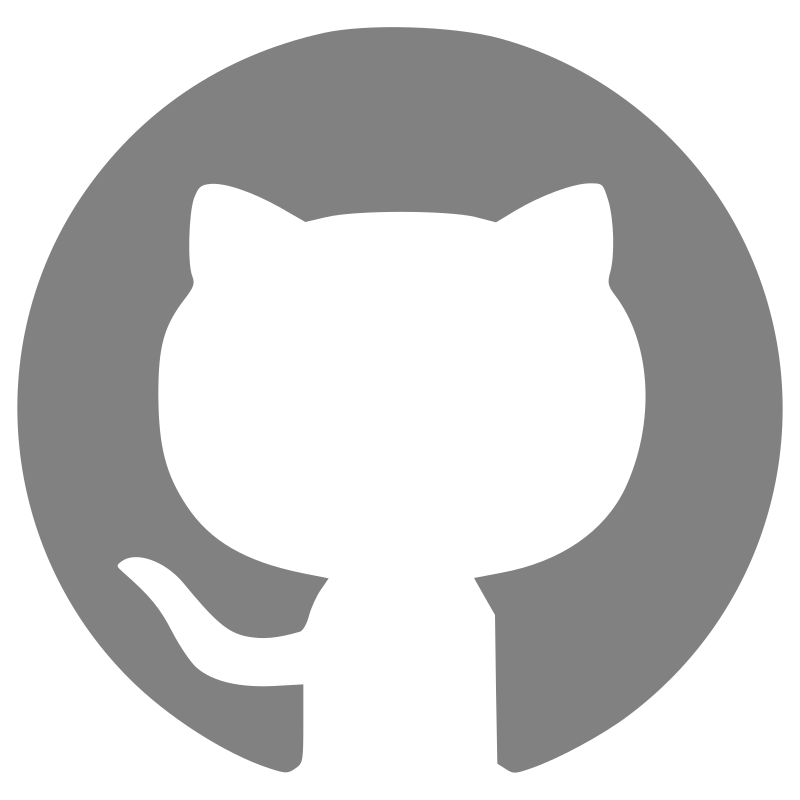
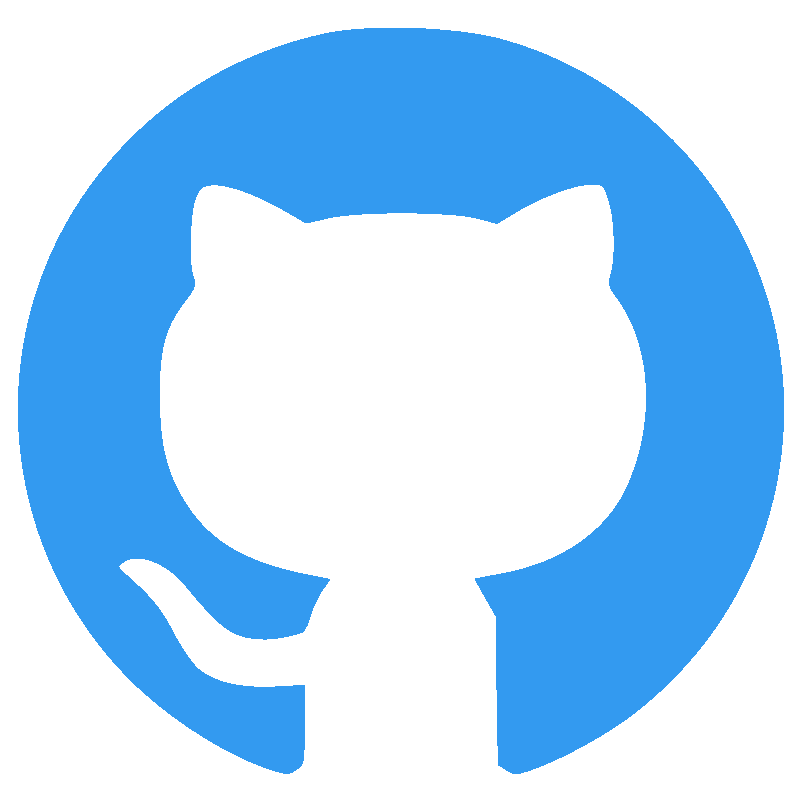
before implementing project grid

diff --git a/index.html b/index.html
@@ -22,7 +22,7 @@
   <body>
     <header>
       <div class="contact-container">
-        <a href="mailto:mwoj772@gmail.com">
+        <a href="mailto:mwoj772@gmail.com" class="a-text">
           <div class="contact-box">
             <svg
               xmlns="http://www.w3.org/2000/svg"
@@ -41,7 +41,7 @@
             <span>mwoj772@gmail.com</span>
           </div>
         </a>
-        <a href="tel:+48601191117">
+        <a href="tel:+48601191117" class="a-text">
           <div class="contact-box">
             <svg
               xmlns="http://www.w3.org/2000/svg"
@@ -65,14 +65,14 @@
             <img
               src="/img/linkedin.png"
               alt="LinkedIn logo"
-              class="logo-linkedin"
+              class="social-logo"
             />
           </a>
           <a href="https://github.com/michalwojcieszek/DigitalGalaxy">
             <img
-              class="github-logo"
-              src="/img/github.png"
-              alt="GitHub logo"
+            src="/img/github.png"
+            alt="github-logo"
+            class="social-logo"
             />
           </a>
         </div>
@@ -139,7 +139,7 @@
       <!-- Projects Section -->
       <section class="container projects" id="projects">
         <h2>My React projects</h2>
-        <ul class="projects-list">
+        <ul class="projects-list-grid">
           <!-- DigitalGalaxy Project -->
           <li class="project">
             <div class="project-text">
@@ -337,12 +337,10 @@ BudgetMaster is the web app that allows users to track their budget in terms on 
                 </ul>
                 <ul class="technologies-logos-list">
                   <li><img src="img/react.png" alt="React logo" /></li>
-                  <li><img src="img/tailwind.png" alt="Tailwind logo" /></li>
+                  <li><img src="img/styled-components.png" alt="Styled Components logo" /></li>
                   <li><img src="img/redux.png" alt="Redux logo" /></li>
                   <li><img src="img/router.png" alt="React Router logo" /></li>
-                  <li><img src="img/nodejs.png" alt="Nodejs logo" /></li>
-                  <li><img src="img/mongodb.png" alt="MongoDB logo" /></li>
-                  <li><img src="img/express.png" alt="Express logo" /></li>
+       
                 </ul>
               </div>
               <div class="text-flex">
@@ -560,14 +558,14 @@ BudgetMaster is the web app that allows users to track their budget in terms on 
             <img
               src="/img/linkedin.png"
               alt="LinkedIn logo"
-              class="logo-linkedin"
+              class="social-logo"
             />
           </a>
           <a href="https://github.com/michalwojcieszek/DigitalGalaxy">
             <img
               class="github-logo"
               src="/img/github.png"
-              alt="GitHub logo"
+              alt="social-logo"
             />
           </a>
         </div>

diff --git a/css/styles.css b/css/styles.css
@@ -14,13 +14,14 @@ header {
   letter-spacing: 0.6rem;
 }
 
-header a {
+.a-text,
+.main-nav-list a {
   display: inline-block;
   position: relative;
 }
 
-header a::after,
-footer a::after {
+.a-text::after,
+.main-nav-list a::after {
   content: "";
   position: absolute;
   width: 100%;
@@ -33,14 +34,15 @@ footer a::after {
   transition: transform 0.25s ease-out;
 }
 
-header a:hover::after,
-footer a:hover::after {
+.a-text:hover::after,
+.main-nav-list a:hover::after {
   transform: scaleX(1);
   transform-origin: bottom left;
 }
 
-header a:hover svg,
-header a:hover {
+.a-text:hover svg,
+.a-text:hover,
+.main-nav-list a:hover {
   color: var(--primary-color);
 }
 
@@ -72,9 +74,14 @@ header a:hover {
   height: 2.4rem;
 }
 
-.logo-linkedin {
+.social-logo {
   height: 3rem;
   filter: grayscale(100%);
+  transition: all ease 300ms;
+}
+
+.social-logo:hover {
+  filter: none;
 }
 
 /* ============================== */
@@ -107,7 +114,8 @@ header a:hover {
   background: -webkit-linear-gradient(#1c7ed6, #4dabf7);
   -webkit-background-clip: text;
   -webkit-text-fill-color: transparent;
-  transition: all ease-in-out 2s;
+  transition: all ease 600ms;
+  animation: 2s ease-in-out 0s 1 grow;
 }
 
 .hero-h2 {
@@ -152,12 +160,42 @@ header a:hover {
   }
 }
 
+@keyframes slideInFromLeft {
+  0% {
+    transform: translateX(-20%);
+  }
+  100% {
+    transform: translate(15%, -50%);
+  }
+}
+
+@keyframes slideInFromRight {
+  0% {
+    transform: translateX(20%);
+  }
+  100% {
+    transform: translate(0);
+  }
+}
+
+@keyframes grow {
+  0% {
+    transform: scale(0.4);
+  }
+  100% {
+    transform: scale(1);
+  }
+}
+
 .hero-img-container {
   display: flex;
   justify-content: center;
   position: relative;
-
   /* z-index: 999; */
+}
+
+.hero-img-container img {
+  animation: 3s ease-in-out 0s 1 slideInFromRight;
 }
 
 .hero-img-container:hover::before {
@@ -176,7 +214,8 @@ header a:hover {
   border-radius: 100%;
   background-image: var(--gradient-primary);
   z-index: -2;
-  transition: all ease 2s;
+  transition: all ease 600ms;
+  animation: 3s ease-out 0s 1 slideInFromLeft;
 }
 
 /* .hero-img-container::after {
@@ -213,7 +252,7 @@ header a:hover {
 
 .skills-ul img {
   height: 6rem;
-  transition: all ease 1s;
+  transition: all ease 600ms;
 
   /* filter: brightness(0); */
   /* opacity: 50%; */
@@ -246,10 +285,12 @@ header a:hover {
   justify-content: space-between;
 }
 
-.projects-list {
-  display: flex;
-  flex-direction: column;
-  gap: 10rem;
+.projects-list-grid {
+  display: grid;
+  grid-template-columns: 1fr 1fr;
+  grid-template-rows: 1fr;
+  row-gap: 10rem;
+  column-gap: 4rem;
 }
 
 .project-img {
@@ -354,6 +395,7 @@ header a:hover {
 
 .github-logo {
   width: 3rem;
+  filter: grayscale(100%);
 }
 
 .project-img img {

diff --git a/css/general.css b/css/general.css
@@ -147,7 +147,7 @@ p {
 }
 
 .container {
-  padding: 8rem 20rem 0;
+  padding: 8rem 10rem 0;
   /* background-color: white; */
 }
 
